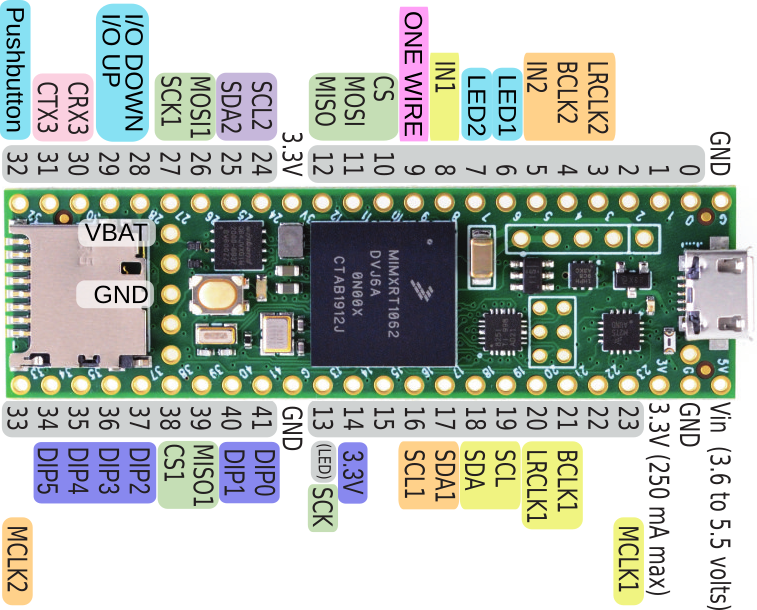
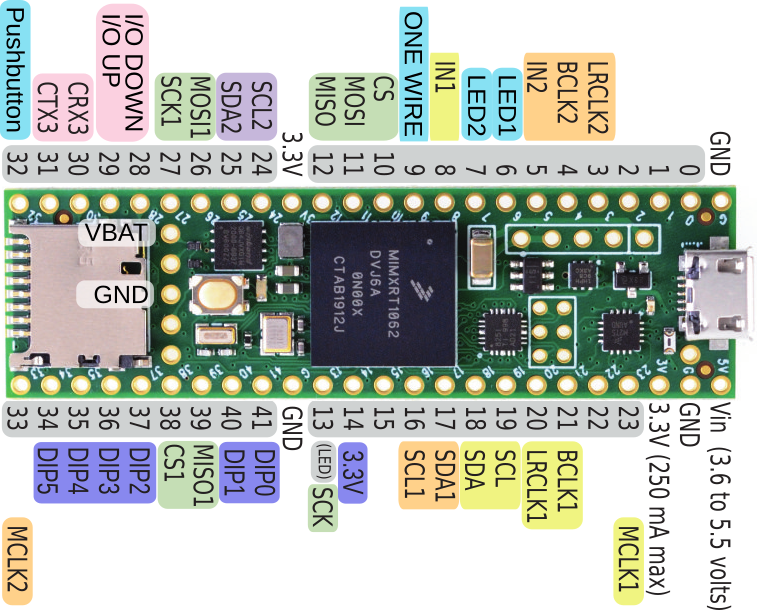
[R4.1b] improved pin colors

Changed region(s): [[0.1215, 0.0, 0.2127, 0.2492], [0.5165, 0.0, 0.5773, 0.2492]]

diff --git a/R4.1/r41b.md b/R4.1/r41b.md
@@ -13,16 +13,16 @@ Benda](https://github.com/janscience).
 
 ![pinout](images/teensy41-R41b-pinout.png)
 
-- The TDM bus pins (yellow and orange) are fixed (except for the GPIO lines).
-- The I2C bus ins are fixed (light purple).
+- The TDM bus and corresponding I2C control pins (yellow and orange) are fixed (except for the GPIO lines).
+- The I2C bus pins are fixed (light purple).
 - The SPI bus pins are fixed (green).
 - The CAN bus pins (pink, CRX and CTX) are fixed.
 - All other pins can be moved or exchanged:
-  - I/O UP, I/O DOWN (light pink)
-  - Onewire data pin (pink)
+  - I/O UP, I/O DOWN (pink)
+  - Onewire data pin (cyan)
   - Pushbuttom (cyan)
   - LED1 and LED2 (cyan)
-  - DIP0 - DIP5 and 3.3V pin (dark purple)
+  - DIP0 - DIP5 and 3.3V pin (blue)
 
 
 ## Layout
